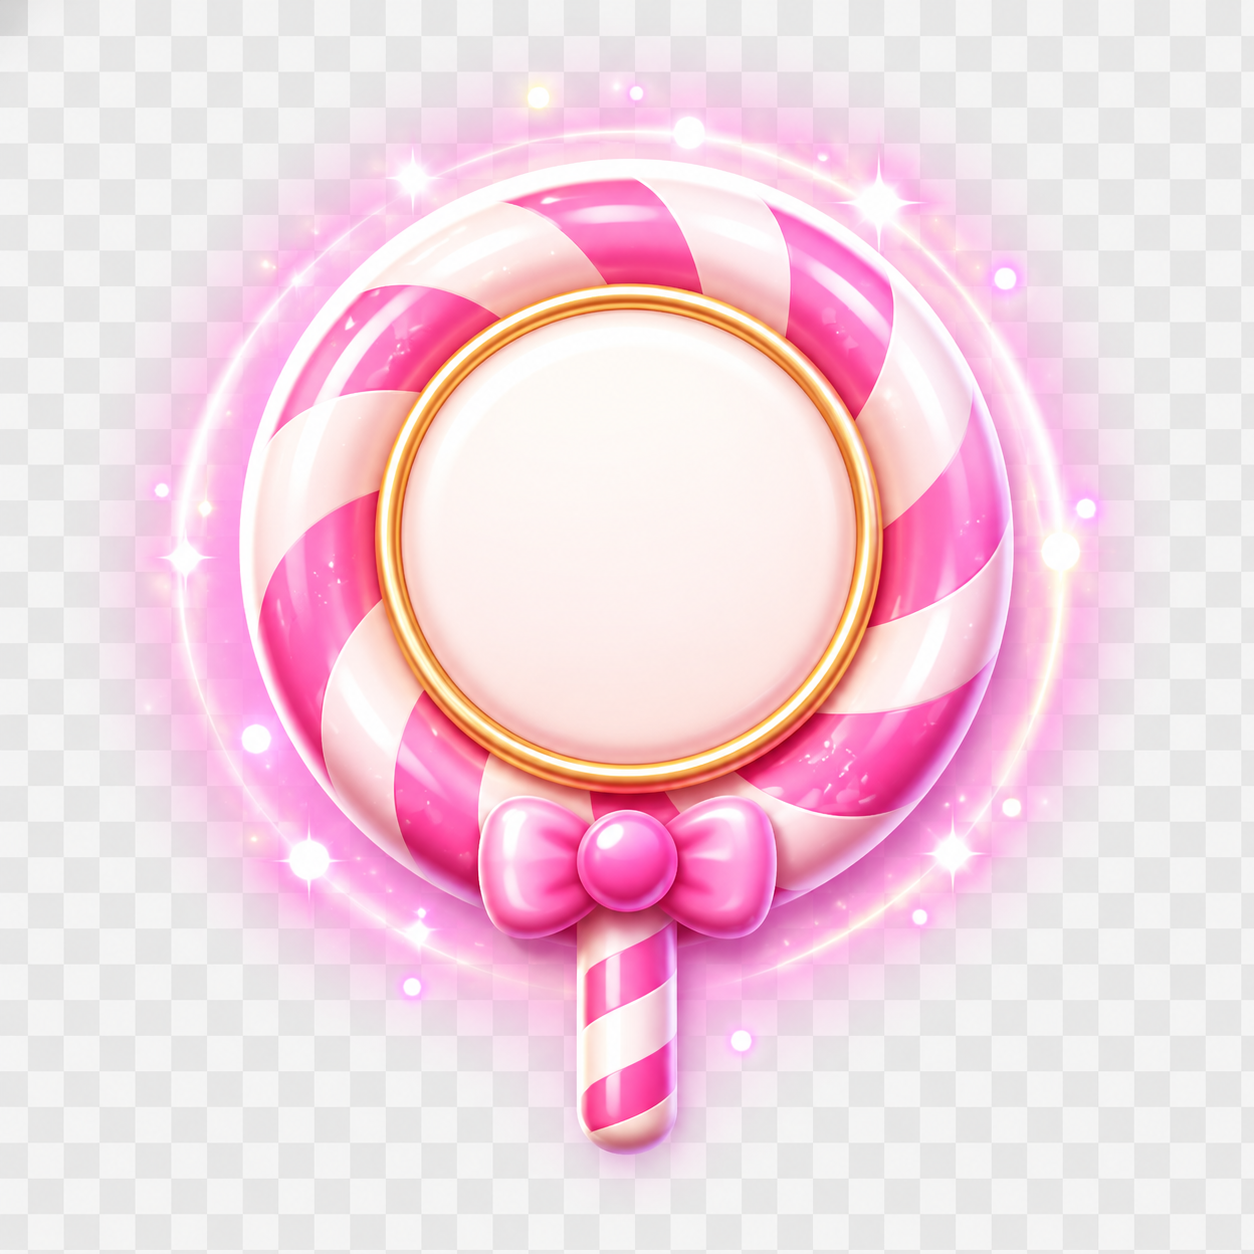
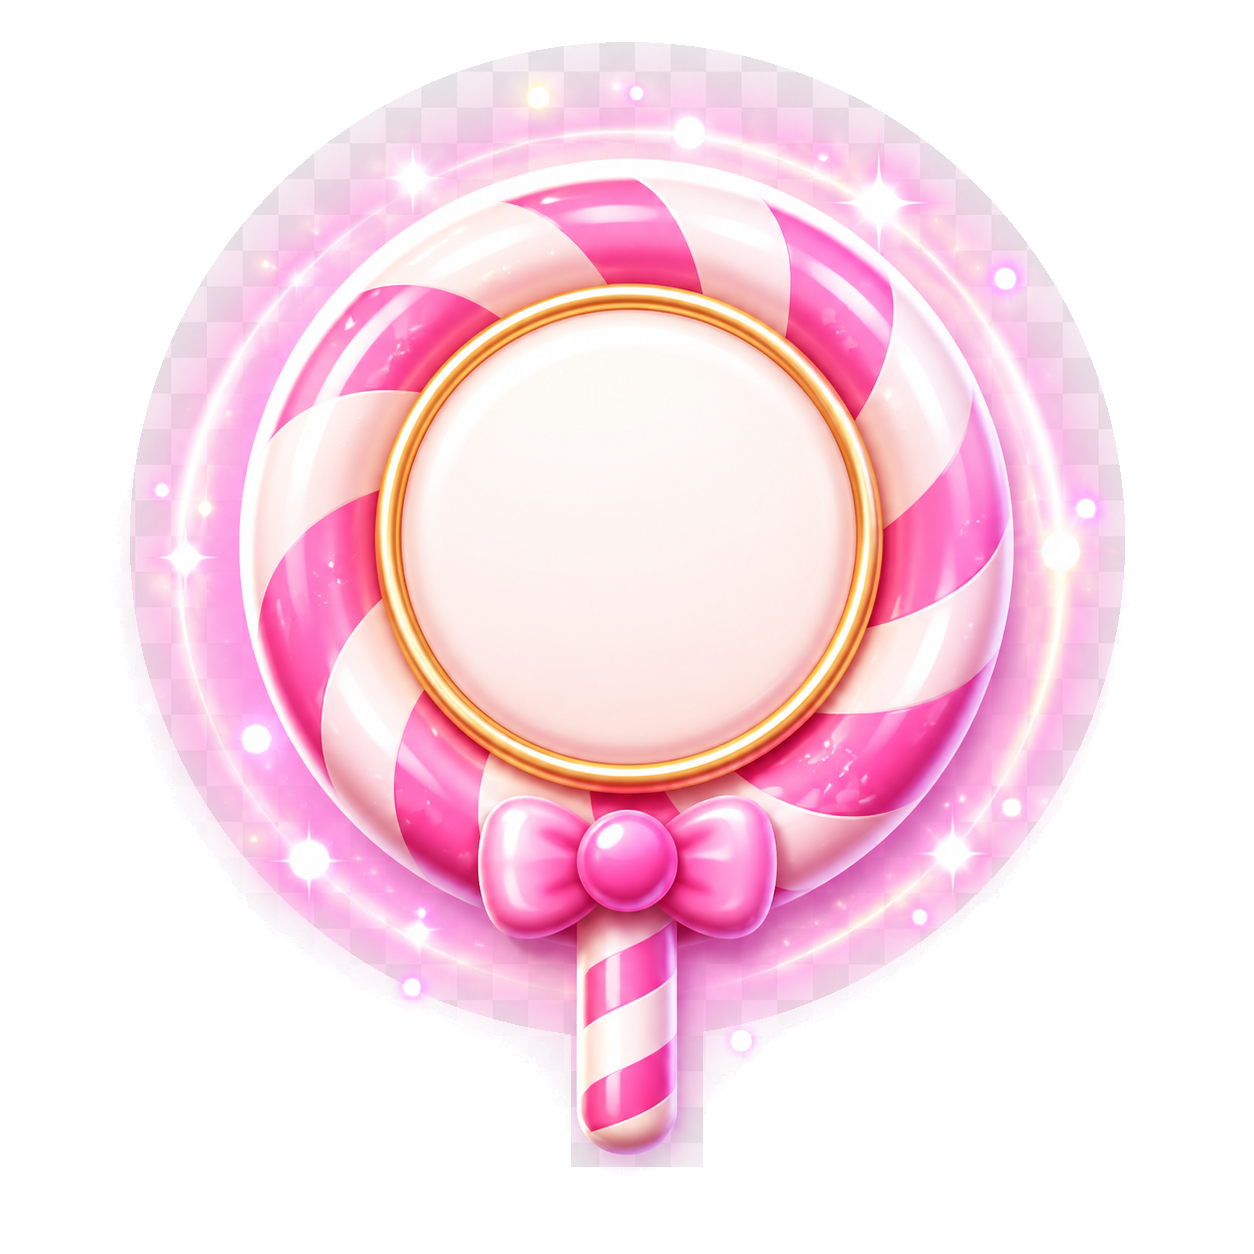
Clean level road node assets

Changed region(s): [[0.0, 0.0, 1.0, 1.0]]

diff --git a/src/scenes/MainScene.ts b/src/scenes/MainScene.ts
@@ -69,6 +69,7 @@ const LEVEL_ROAD_SEGMENT_SIZE = 50;
 const LEVEL_NODE_SPACING = 66;
 const LEVEL_ROAD_TOP_PADDING = 56;
 const LEVEL_ROAD_BOTTOM_PADDING = 88;
+const LEVEL_ROAD_FIRST_NODE_RAISE = 28;
 const PRIVACY_URL = 'https://lumisoftstudios.com/jelly-chain-rush/privacy';
 const TERMS_URL = 'https://lumisoftstudios.com/jelly-chain-rush/terms';
 const SUPPORT_URL = 'https://lumisoftstudios.com/contact';
@@ -329,7 +330,7 @@ export class MainScene extends Phaser.Scene {
       button.className = `level-node${completed ? ' is-completed' : ''}${current ? ' is-current' : ''}${unlocked ? ' is-unlocked' : ' is-locked'}`;
       button.disabled = !playable;
       button.style.left = `${this.getLevelNodeLeft(segmentIndex)}%`;
-      button.style.top = `${roadHeight - LEVEL_ROAD_BOTTOM_PADDING - segmentIndex * LEVEL_NODE_SPACING}px`;
+      button.style.top = `${roadHeight - LEVEL_ROAD_BOTTOM_PADDING - LEVEL_ROAD_FIRST_NODE_RAISE - segmentIndex * LEVEL_NODE_SPACING}px`;
       button.setAttribute('aria-label', `${this.t('level')} ${level}${unlocked ? '' : ` ${this.t('levelLocked')}`}`);
       button.innerHTML = `
         <img class="level-node-image" src="${nodeImage}" alt="" aria-hidden="true" />